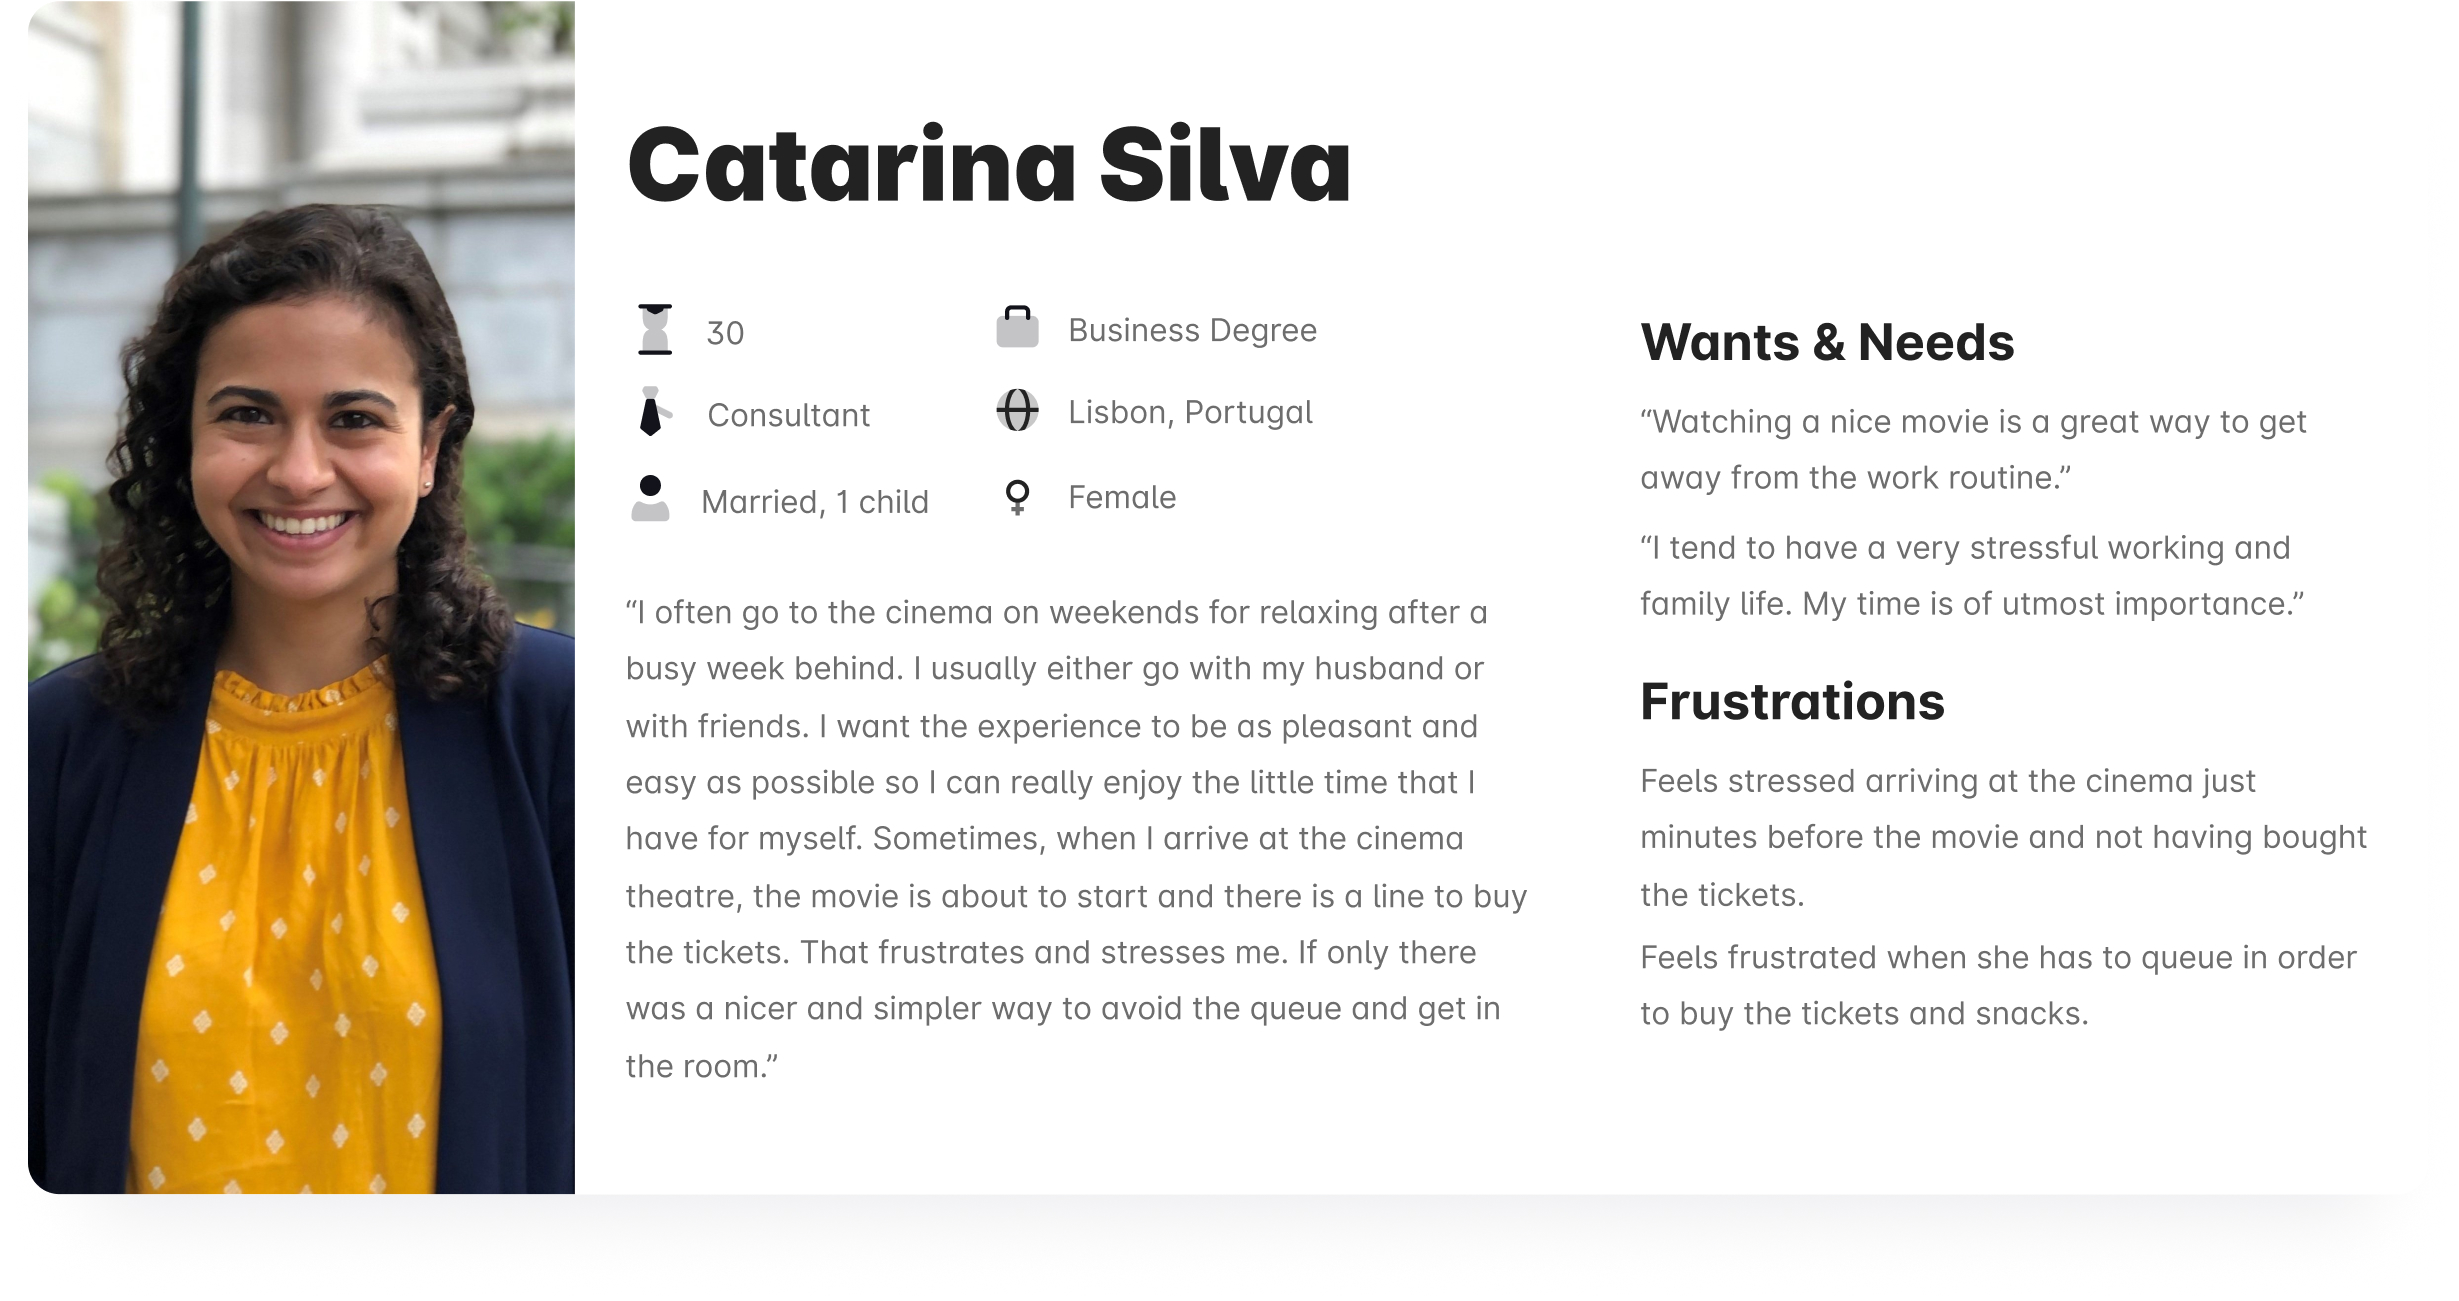
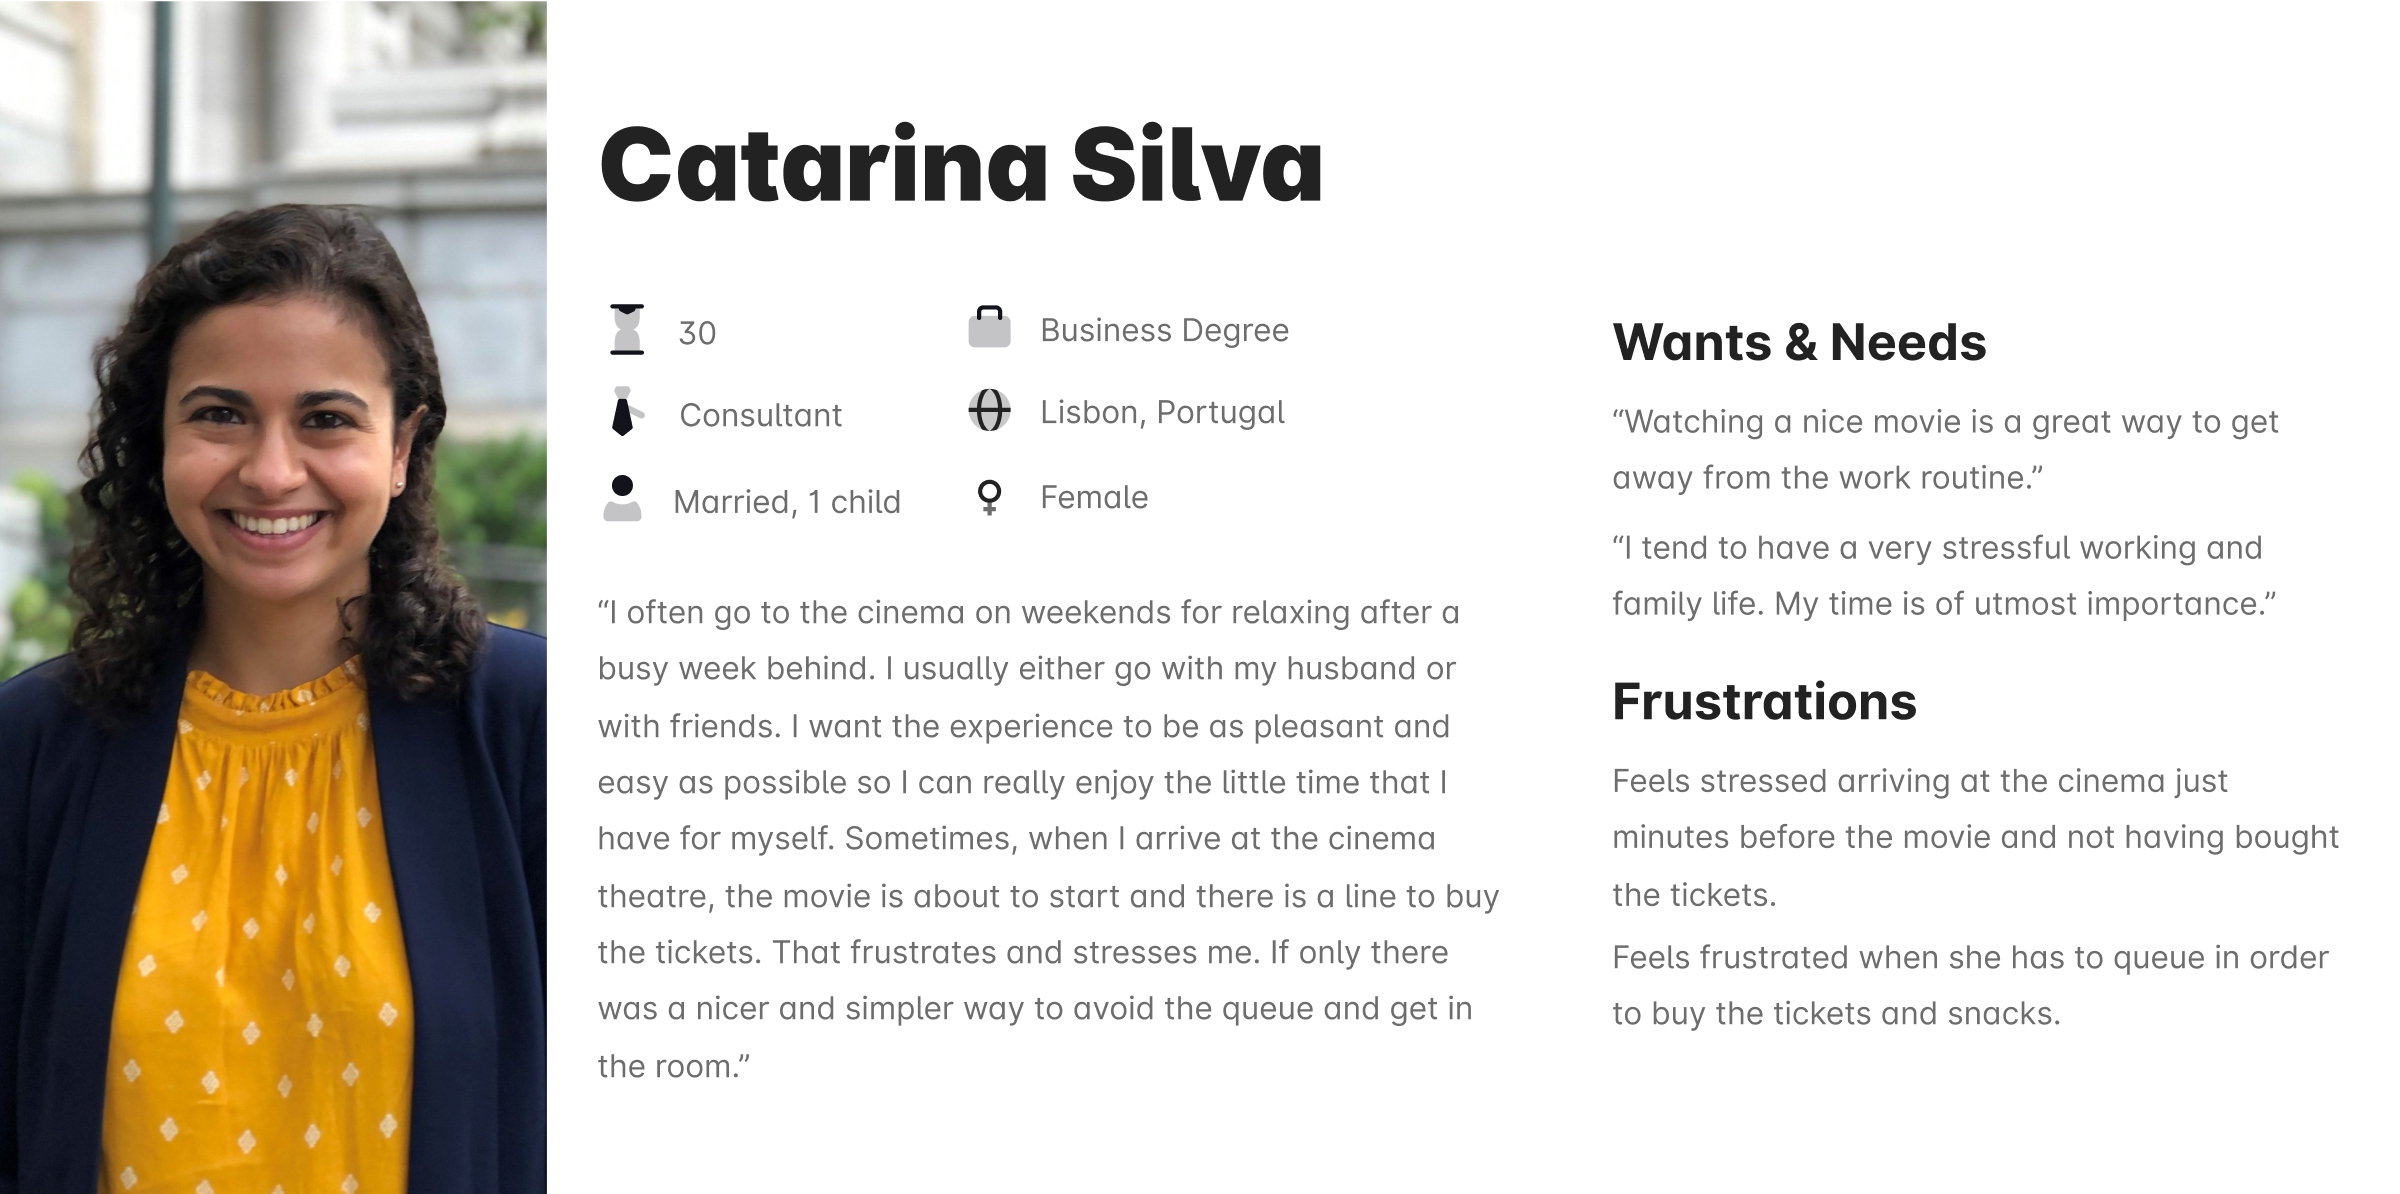
Persona section styled

diff --git a/boulevard.html b/boulevard.html
@@ -184,10 +184,12 @@
             <div class="container">
                 <h2>User Persona</h2>
                 <p><span class="bold">Catarina is the persona</span> I built to embody the motivations and goals of the users I interviewed. It was important for me to build the app with taking into account <span class="bold">Catarina’s desire for convenience and quickness in the process of buying tickets.</span></p>
-                <picture>
-                    <source srcset="img/boulevard-cinemas/4-persona/persona-small.jpg" media="(max-width:767px)">
-                    <img src="img/boulevard-cinemas/4-persona/persona-big.jpg" alt="Persona">
-                </picture>
+                <div class="scrollcontainer">    
+                    <picture class="row">
+                        <source srcset="img/boulevard-cinemas/4-persona/persona-small.jpg" media="(max-width:767px)">
+                        <img class="row" src="img/boulevard-cinemas/4-persona/persona-big.jpg" alt="Persona">
+                    </picture>
+                </div>
             </div>
         </div>
         <div class="section" id="valueproposition">

diff --git a/css/boulevardstyles.css b/css/boulevardstyles.css
@@ -12,6 +12,11 @@ main {
     align-items: center;
     gap: 16px;
 }
+.scrollcontainer {
+    width: 100%;
+    overflow-x: scroll;
+    white-space: nowrap;
+}
 
 /*ProjectHero*/
 #projecthero {
@@ -74,4 +79,10 @@ svg {
     display: flex;
     gap: 40px;
     flex-direction: column;
+}
+
+/*Persona*/
+#persona picture img {
+    border-radius: 5%;
+    width: 250%;
 }
